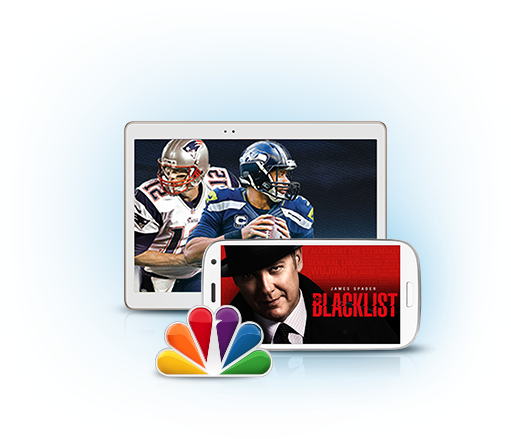
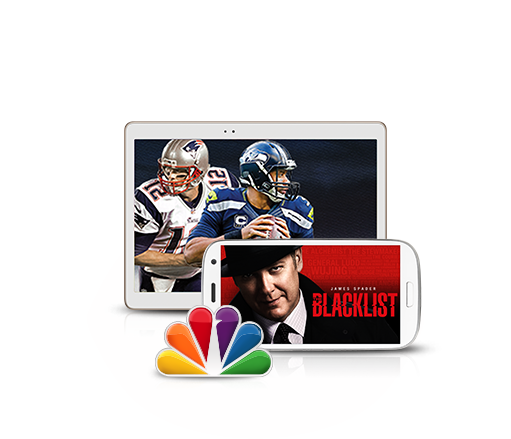
Removed glows from device lockups, updated social post copy and share image to latest, implemented most of typography feedback from Adams visual bug list mockup

Changed region(s): [[0.1468, 0.1777, 0.8806, 0.8884], [0.2642, 0.6811, 0.3816, 0.7995], [0.3523, 0.5923, 0.411, 0.6811]]

diff --git a/index.html b/index.html
@@ -16,15 +16,15 @@
     <meta property="og:title" content="NBC Super Stream Sunday" />
     <meta property="og:type" content="website" />
     <meta property="og:url" content="https://s3.amazonaws.com/isobardev/index.html" />
-    <meta property="og:description" content="TV dream come true. Super Stream Sunday: 11 hours of live streaming the Super Bowl & The Blacklist season premiere. Watch #TVwithoutTHETV">
-    <meta property="og:image" content="http://www.big13.net/NBC%20Peacock/Peacock_Cleanup.JPG" />
-    <meta property="og:image:width" content="644">
-    <meta property="og:image:height" content="484">
+    <meta property="og:description" content="NBC Super Stream Sunday brings 11 hours of Superbowl & The Blacklist live streaming. TV dreams come true.">
+    <meta property="og:image" content="https://s3.amazonaws.com/isobardev/img/social_image.png" />
+    <meta property="og:image:width" content="1200">
+    <meta property="og:image:height" content="630">
 
     <!-- Schema.org markup for Google+ -->
     <meta itemprop="name" content="NBC Super Stream Sunday">
-    <meta name="description" itemprop="description" content="TV dream come true. Super Stream Sunday: 11 hours of live streaming the Super Bowl & The Blacklist season premiere. Watch #TVwithoutTHETV" />
-    <meta itemprop="image" content="http://www.big13.net/NBC%20Peacock/Peacock_Cleanup.JPG">
+    <meta name="description" itemprop="description" content="NBC Super Stream Sunday brings 11 hours of Superbowl & The Blacklist live streaming. TV dreams come true." />
+    <meta itemprop="image" content="https://s3.amazonaws.com/isobardev/img/social_image.png">
 
     <title>NBC Super Stream Sunday</title>
     <link rel="shortcut icon" href="img/favicon.ico">
@@ -62,12 +62,12 @@
         </div>
         <div class="col-sm-4">
           <div class="countdown">
-            <h3>Preview Ends In:</h3>
+            <h3>Preview Ends In</h3>
             <div id="time-left"><span id="countdown-text">&nbsp;</span></div>
             <div class="social">
               <h3>Tell Your Friends</h3>
               <a href="https://www.facebook.com/sharer/sharer.php?u=https://s3.amazonaws.com/isobardev/index.html" title="Share on Facebook" class="share facebook"></a>
-              <a href="https://s3.amazonaws.com/isobardev/index.html" title="TV dream come true. Super Stream Sunday: 11 hours of live streaming the Super Bowl &amp; The Blacklist season premiere. Watch #TVwithoutTHETV" class="share twitter"></a>
+              <a href="http://bit.ly/1A05ted" title="NBC Super Stream Sunday brings 11 hours of Superbowl & The Blacklist live streaming. TV dreams come true." class="share twitter"></a>
               <a href="https://plus.google.com/share?url=https://s3.amazonaws.com/isobardev/index.html" title="Share on Google+" class="share google"></a>
             </div>
           </div>
@@ -327,7 +327,7 @@
       $('a.share.google').click(function(e){
         e.preventDefault();
         var loc = $(this).attr('href');
-        window.open(loc, 'googleDialog', 'height=550, width=506, top='+($(window).height()/2 - 225) +', left='+$(window).width()/2 +', toolbar=0, location=0, menubar=0, directories=0, scrollbars=0');
+        window.open(loc, 'googleDialog', 'height=768, width=506, top='+($(window).height()/2 - 225) +', left='+$(window).width()/2 +', toolbar=0, location=0, menubar=0, directories=0, scrollbars=0');
         return false;
       })
     });

diff --git a/css/superstream.css b/css/superstream.css
@@ -132,6 +132,10 @@ img.scale {
   position: absolute; top:0; right: 0;
 }
 
+.action.livestream-cta {
+  font-size: 22px;
+}
+
 .livestream-cta .glyphicon {
   top: 3px;
 }
@@ -150,6 +154,10 @@ img.scale {
 .app-store-group .stores a {
   margin-bottom: 5px;
   display: inline-block;
+}
+
+.app-store-group .desc {
+  margin-top: 8px;
 }
 
 /*----------*/
@@ -295,6 +303,7 @@ a.action.angled:after {
 }
 
 .countdown .social .twitter {
+  margin-left: 2px;
   background-image: url('../img/icon_tw.png');
 }
 
@@ -363,7 +372,7 @@ a.action.angled:after {
 
 .tile3 .note {
   color: #9f9f9f;
-  font-size: 14px;
+  font-size: 16px;
   margin-top: 20px;
 }
 
@@ -398,7 +407,6 @@ a.action.angled:after {
   position: relative;
   box-sizing: border-box;
   min-height: 40px;
-  font-weight: bold;
   font-size: 16px;
 }
 
@@ -434,7 +442,7 @@ a.action.angled:after {
   color: #FFF;
   padding-top: 56px;
   padding-bottom: 0px;
-  font-size: 24px;
+  font-size: 22px;
 }
 
 .tile3 .logos {
@@ -459,7 +467,7 @@ a.action.angled:after {
 }
 
 .tile3 .next-tile-button {
-  font-size: 20px;
+  font-size: 24px;
   position: absolute; left: 15px; bottom: 0;
 }
 
